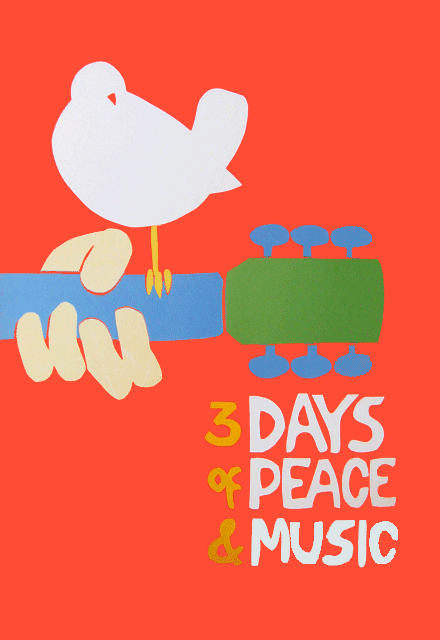
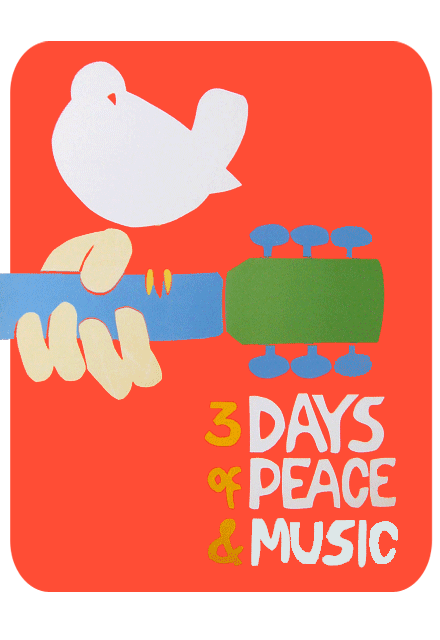
-

Changed region(s): [[0.0, 0.0, 1.0, 1.0], [0.325, 0.3438, 0.3841, 0.4688]]

diff --git a/demo.html b/demo.html
@@ -31,6 +31,10 @@
 	<link rel="stylesheet" type="text/css" href="css/ie8.css">
 	<![endif]-->
 	
+<script src="https://ajax.googleapis.com/ajax/libs/jquery/1.7.1/jquery.min.js" type="text/javascript"></script>
+
+<script src="http://tictechstatic.s3-website-eu-west-1.amazonaws.com/shop/javascripts/tictech.js" type="text/javascript"></script>	
+	
 </head>
 
 <body>
@@ -113,7 +117,7 @@
 		<center>
 		<div class="woodstock">
 		
-			<IFRAME src="https://tictech-secure.heroku.com/webshop/selecttickets/woodstock" class="ticketshopdemo" width="440" height="640" scrolling="auto"></IFRAME>
+			<IFRAME src="http://localhost:3000/shop/web/woodstock/WOODSTOCK69" id="tictech-shop" class="ticketshopdemo" width="440" height="640" scrolling="no"></IFRAME>
 			
 		</div>	
 		</center>

diff --git a/style.css b/style.css
@@ -674,9 +674,10 @@ ul#filter a:hover  {border-bottom:1px dotted #000;}
 /* Eigen stuff */
 
 .woodstock {
-	background-image: url(images/woodstock.png);
+	background-image:url('images/woodstock.png');
 	text-align: right;
 	width: 880px;
+	background-repeat:no-repeat;
 	}
 
 .woodstockwrap {
